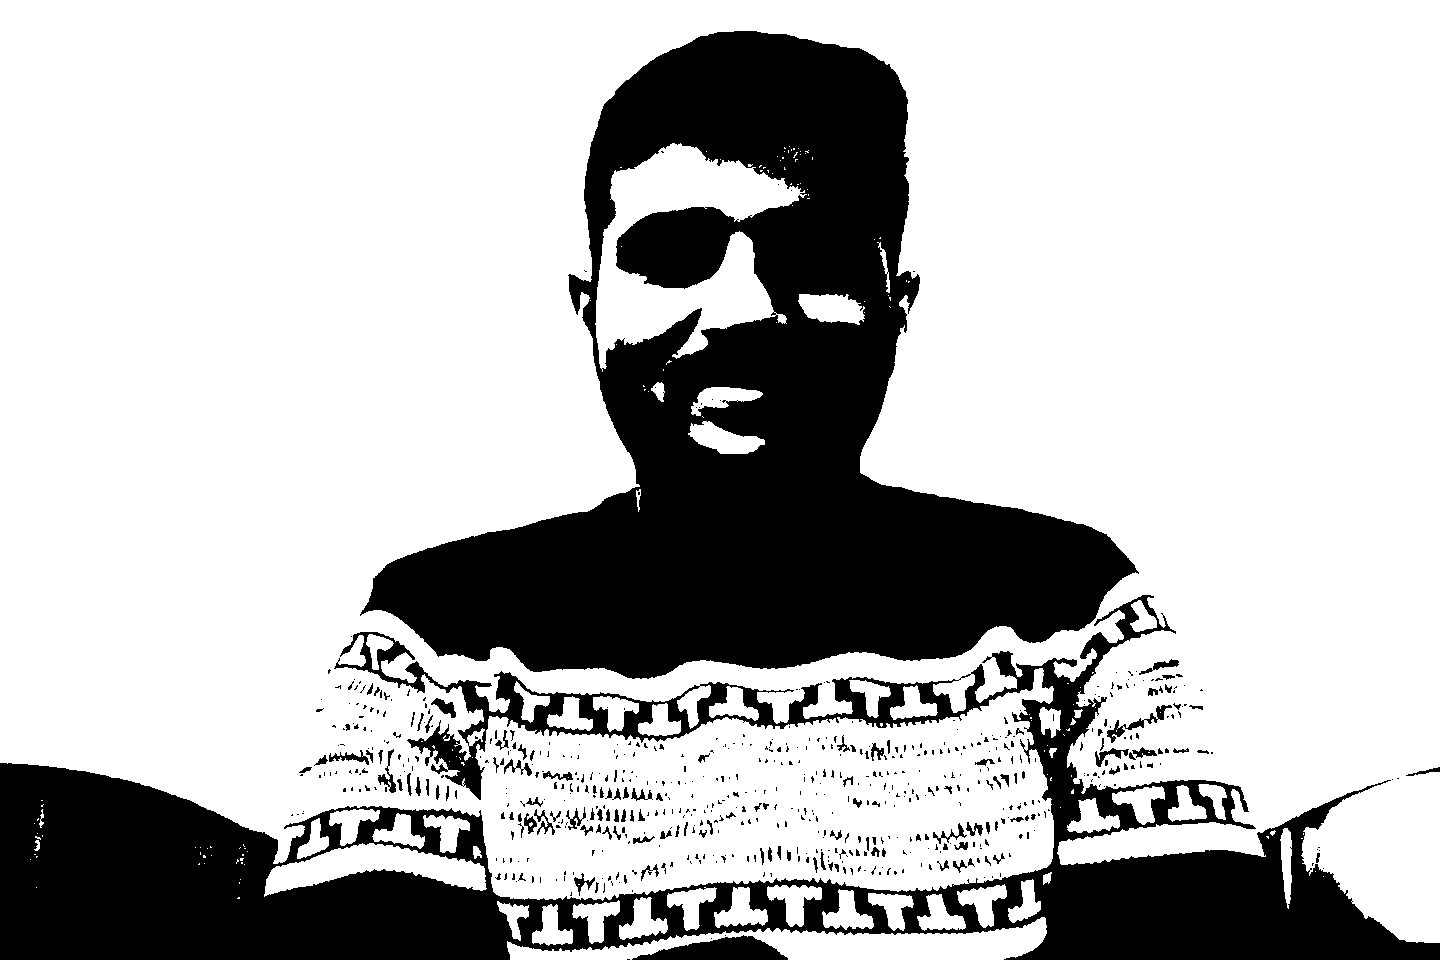
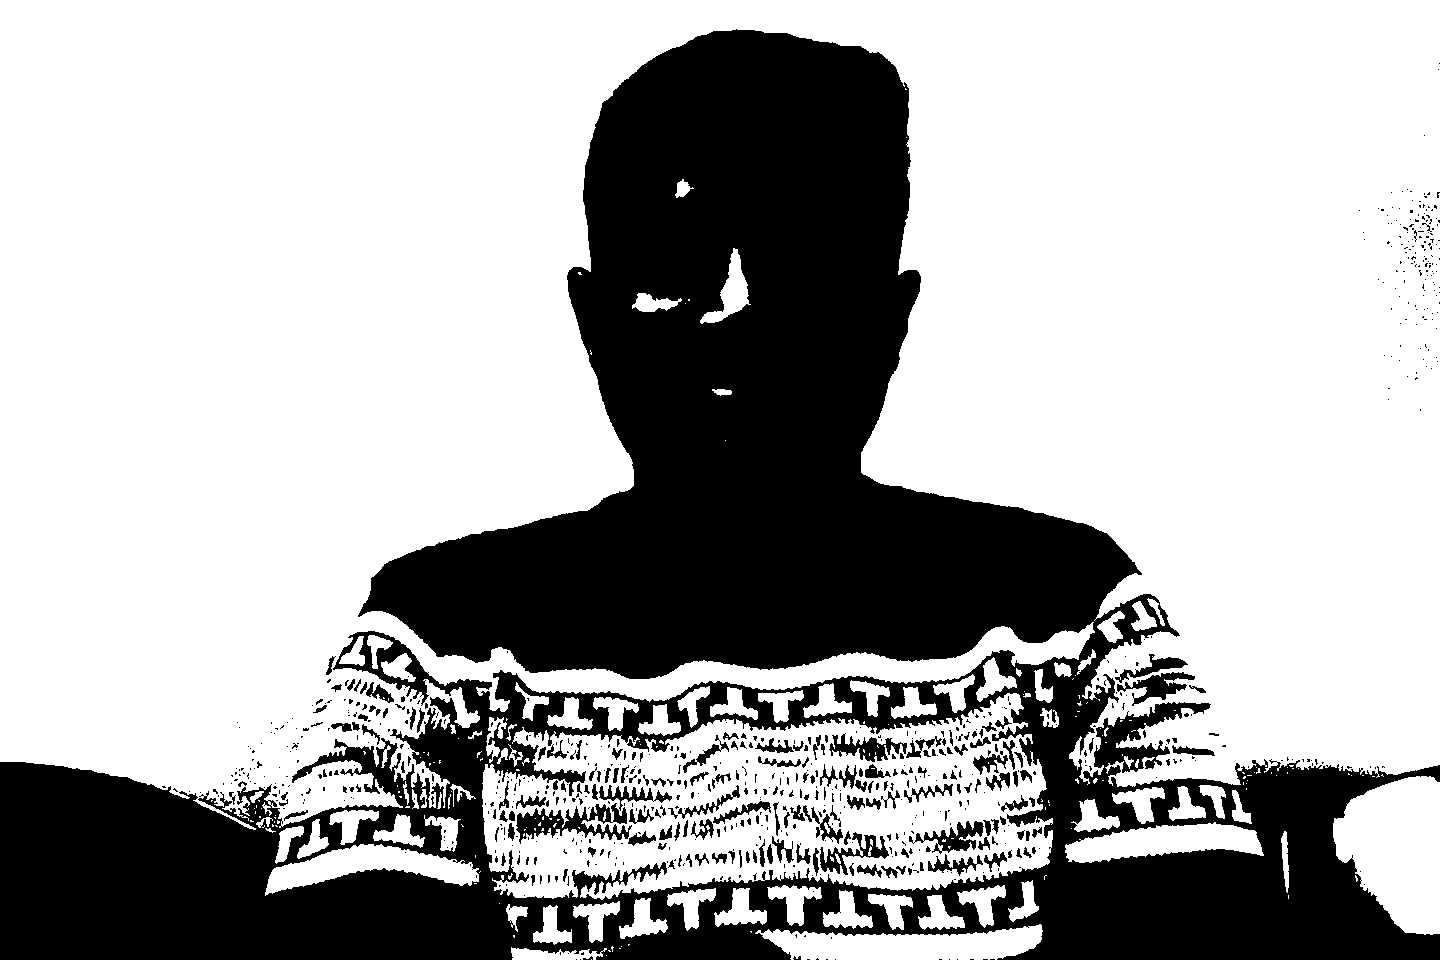
Fix: ipFunction updated

diff --git a/interpreter/Interpreter.cc b/interpreter/Interpreter.cc
@@ -46,14 +46,11 @@ std::string Interpreter::getString(Expr *e)
     return str->getStr();
 }
 
-Image *Interpreter::getImage(Expr *e)
+std::unique_ptr<Value> &Interpreter::getImage(Expr *e)
 {
     Id *id = dynamic_cast<Id *>(e);
     assert(id != nullptr);
-    Image *image = dynamic_cast<Image *>(context.getVariable(id->getName()));
-
-    assert(image != nullptr);
-    return image;
+    return context.getVariableRef(id->getName());
 }
 
 float Interpreter::getNumber(Expr *expr)
@@ -68,64 +65,58 @@ bool Interpreter::isIPFunction(const std::string &funcName)
 {
     return ImageOperation::UNKNOWN != getImageOperation(funcName);
 }
-
-void Interpreter::ipFunction(CallFunc *func)
-{
+void Interpreter::ipFunction(CallFunc* func) {
     LOG_OPERATION_START("Interpreter::ipFunction(CallFunc *func)");
-    ImageOperation op = getImageOperation(func->funcName());
-    ImageProcessor &proc = ImageProcessor::getInstance();
 
-    auto globalParms = func->funcArgs();
-    int gs = globalParms.size();
+    try {
+        // Retrieve operation and processor
+        ImageOperation op = getImageOperation(func->funcName());
+        ImageProcessor& proc = ImageProcessor::getInstance();
 
-    assert(gs > 0);
+        // Get function arguments
+        auto globalParms = func->funcArgs();
+        int gs = globalParms.size();
+        assert(gs > 0);
 
-    if (op == ImageOperation::LOAD)
-    {
-        assert(gs == 1);
+        // Handle the LOAD operation
+        if (op == ImageOperation::LOAD) {
+            assert(gs == 1);
+            std::string path = getString(globalParms[0]);
+            current = ValuePtr(IPLFactory::createImage(path));
+        } else {
+            // Retrieve the image for other operations
+            std::unique_ptr<Value>& img = getImage(globalParms[0]);
+            Image* image = dynamic_cast<Image*>(img.get());
 
-        std::string path = getString(globalParms[0]);
-
-        current = ValuePtr(IPLFactory::createImage(path));
-        return;
-    }
-
-    if (op == ImageOperation::SAVE)
-    {
-        assert(gs == 2);
-
-        Image *image = getImage(globalParms[0]);
-        std::string path = getString(globalParms[1]);
-
-
-        image->save(path);
-
-        return;
-    }
-
-    Image *img = getImage(globalParms[0]);    
-
-    if (op == ImageOperation::CONV2BIN)
-    {
-        assert(gs <= 2);
-
-        if (gs == 1)
-        {
-            proc.toBinary(img);
+            // Handle SAVE operation
+            if (op == ImageOperation::SAVE) {
+                assert(gs == 2 && image != nullptr);
+                std::string path = getString(globalParms[1]);
+                image->save(path);
+            } else if (gs == 2) {
+                // Handle operations with two parameters
+                double param = getNumber(globalParms[1]);
+                switch (op) {
+                    case ImageOperation::SETINTENSITY: proc.setIntensity(img, param); break;
+                    case ImageOperation::ADDBRIGHTNESS: proc.addBrightness(img, param); break;
+                    case ImageOperation::CONV2BIN: proc.conv2Bin(img, param); break;
+                    default: throw std::invalid_argument("Invalid operation with two parameters");
+                }
+            } else {
+                // Handle operations with one parameter
+                switch (op) {
+                    case ImageOperation::CONV2BIN: proc.conv2Bin(img); break;
+                    case ImageOperation::CONV2GRAY: proc.conv2Grayscale(img); break;
+                    case ImageOperation::NEGATIVEIMAGE: proc.negativeImage(img); break;
+                    case ImageOperation::HISTEQUALIZATION: proc.histEqualization(img); break;
+                    case ImageOperation::CONV2RGB: proc.conv2rgb(img); break;
+                    case ImageOperation::CONV2RGBA: proc.conv2rgba(img); break;
+                    default: throw std::invalid_argument("Invalid single-parameter operation");
+                }
+            }
         }
-        else
-        {
-            proc.conv2Bin(img, getNumber(globalParms[1]));
-        }
-
-        return;
-    }
-
-    if (gs == 1)
-    {
-        proc.conv2Grayscale(img);
-
-        return;
+    } catch (const std::exception& e) {
+        std::cout<<("Error in ipFunction: ", e.what())<<"\n";
     }
 
     LOG_OPERATION_END("Interpreter::ipFunction(CallFunc *func)");
@@ -462,6 +453,7 @@ void Interpreter::visit(CallFunc *func)
     }
     else
     {
+        std::cout<<func->funcName()<<"\n";
         DefFunc *f = dynamic_cast<DefFunc *>(fName);
         assert(f != nullptr);
 

diff --git a/utils/ImageProcessor.cc b/utils/ImageProcessor.cc
@@ -98,13 +98,12 @@ void applykernel(Image &img, float *kernel, int ksize)
     delete[] sumArr;
 }
 
-std::vector<float> ImageProcessor::getHistogram(Image* img)
+std::vector<float> ImageProcessor::getHistogram(Image *image)
 {
-    
     std::vector<float> hist(256, 0);
 
-    float *data = img->getData();
-    int size = img->getChannels() * img->getHeight() * img->getWidth();
+    float *data = image->getData();
+    int size = image->getChannels() * image->getHeight() * image->getWidth();
     for (int i = 0; i < size; i++)
     {
         hist[(int)data[i]]++;
@@ -118,8 +117,11 @@ std::vector<float> ImageProcessor::getHistogram(Image* img)
     return hist;
 }
 
-void ImageProcessor::grayscale2color(Image* image, char x)
+void ImageProcessor::grayscale2color(std::unique_ptr<Value> &img, char x)
 {
+    Image* image = dynamic_cast<Image*>(img.get());
+
+    assert(image != nullptr);
     int cnls = 3;
     int height = image->getHeight();
     int width = image->getWidth();
@@ -134,7 +136,7 @@ void ImageProcessor::grayscale2color(Image* image, char x)
 
     std::string name = image->getName();
 
-    Image* newImg = nullptr;
+    std::unique_ptr<Image> newImg = nullptr;
 
     if (x == 'a')
     {
@@ -156,7 +158,7 @@ void ImageProcessor::grayscale2color(Image* image, char x)
         }
     }
 
-    image = std::move(newImg);
+    img = std::move(newImg);
 }
 
 ImageProcessor::ImageProcessor() {}
@@ -167,8 +169,12 @@ ImageProcessor &ImageProcessor::getInstance()
     return instance;
 }
 
-void ImageProcessor::conv2Grayscale(Image* image)
+void ImageProcessor::conv2Grayscale(std::unique_ptr<Value> &img)
 {
+    Image* image = dynamic_cast<Image*>(img.get());
+
+    assert(image != nullptr);
+
     if (image->getChannels() < 3)
     {
         std::cout << "It's not a color Image!!!\n";
@@ -189,18 +195,21 @@ void ImageProcessor::conv2Grayscale(Image* image)
     }
 }
 
-void ImageProcessor::conv2rgb(Image* image)
+void ImageProcessor::conv2rgb(std::unique_ptr<Value> &image)
 {
     grayscale2color(image, 'c');
 }
 
-void ImageProcessor::conv2rgba(Image* image)
+void ImageProcessor::conv2rgba(std::unique_ptr<Value> &image)
 {
     grayscale2color(image, 'a');
 }
 
-void ImageProcessor::conv2Bin(Image* image, int threshold)
+void ImageProcessor::conv2Bin(std::unique_ptr<Value> &img, int threshold)
 {
+    Image* image = dynamic_cast<Image*>(img.get());
+
+    assert(image != nullptr);
     int cnls = image->getChannels();
     float temp, v;
     for (int i = 0; i < image->getHeight(); i++)
@@ -227,8 +236,11 @@ void ImageProcessor::conv2Bin(Image* image, int threshold)
     }
 }
 
-void ImageProcessor::setIntensity(Image*  image, const float intensity)
+void ImageProcessor::setIntensity(std::unique_ptr<Value> &img, const float intensity)
 {
+    Image* image = dynamic_cast<Image*>(img.get());
+
+    assert(image != nullptr);
     if (image->getChannels() != 4)
         throw std::runtime_error("It's not a four channel image!!!");
 
@@ -243,8 +255,11 @@ void ImageProcessor::setIntensity(Image*  image, const float intensity)
     }
 }
 
-void ImageProcessor::addBrightness(Image*  image, int threshold)
+void ImageProcessor::addBrightness(std::unique_ptr<Value> &img, int threshold)
 {
+    Image* image = dynamic_cast<Image*>(img.get());
+
+    assert(image != nullptr);
     int cnls = image->getChannels();
     float r, g, b;
     for (int i = 0; i < image->getHeight(); i++)
@@ -259,17 +274,22 @@ void ImageProcessor::addBrightness(Image*  image, int threshold)
                 {
                     rgbaPixel->setAlpha(WHITE);
                 }
+                rgbPixel->correctPixel();
             }
             else
             {
                 pp->operator+=(threshold);
+                pp->correctPixel();
             }
         }
     }
 }
 
-void ImageProcessor::negativeImage(Image*  image)
+void ImageProcessor::negativeImage(std::unique_ptr<Value> &img)
 {
+    Image* image = dynamic_cast<Image*>(img.get());
+
+    assert(image != nullptr);
     int height = image->getHeight();
     int width = image->getWidth();
     int cnls = image->getChannels();
@@ -296,8 +316,11 @@ void ImageProcessor::negativeImage(Image*  image)
     }
 }
 
-void ImageProcessor::histEqualization(Image*  image)
+void ImageProcessor::histEqualization(std::unique_ptr<Value> &img)
 {
+    Image* image = dynamic_cast<Image*>(img.get());
+
+    assert(image != nullptr);
     std::vector<float> hist = getHistogram(image);
     std::vector<int> histEq(256, 0);
 

diff --git a/interpreter/ExecContext.cc b/interpreter/ExecContext.cc
@@ -74,3 +74,20 @@ Value* ExecContext::getVariable(const std::string name) const
     LOG_OPERATION_END("ExecContext::getVariable BUT NOT FOUND");
     return nullptr;
 }
+
+std::unique_ptr<Value> &ExecContext::getVariableRef(const std::string name)
+{
+    LOG_OPERATION_START("ExecContext::getVariableRef");
+
+    for (auto it = scopeStack.rbegin(); it != scopeStack.rend(); ++it) {
+        auto& currentScope = *it; // Use reference
+        auto varIt = currentScope.find(name);
+        if (varIt != currentScope.end()) {
+            LOG_OPERATION_END("ExecContext::getVariableRef");
+            return varIt->second; // Return reference to unique_ptr
+        }
+    }
+
+    LOG_OPERATION_END("ExecContext::getVariableRef BUT NOT FOUND");
+    throw std::runtime_error("Variable not found"); // Handle error properly
+}
